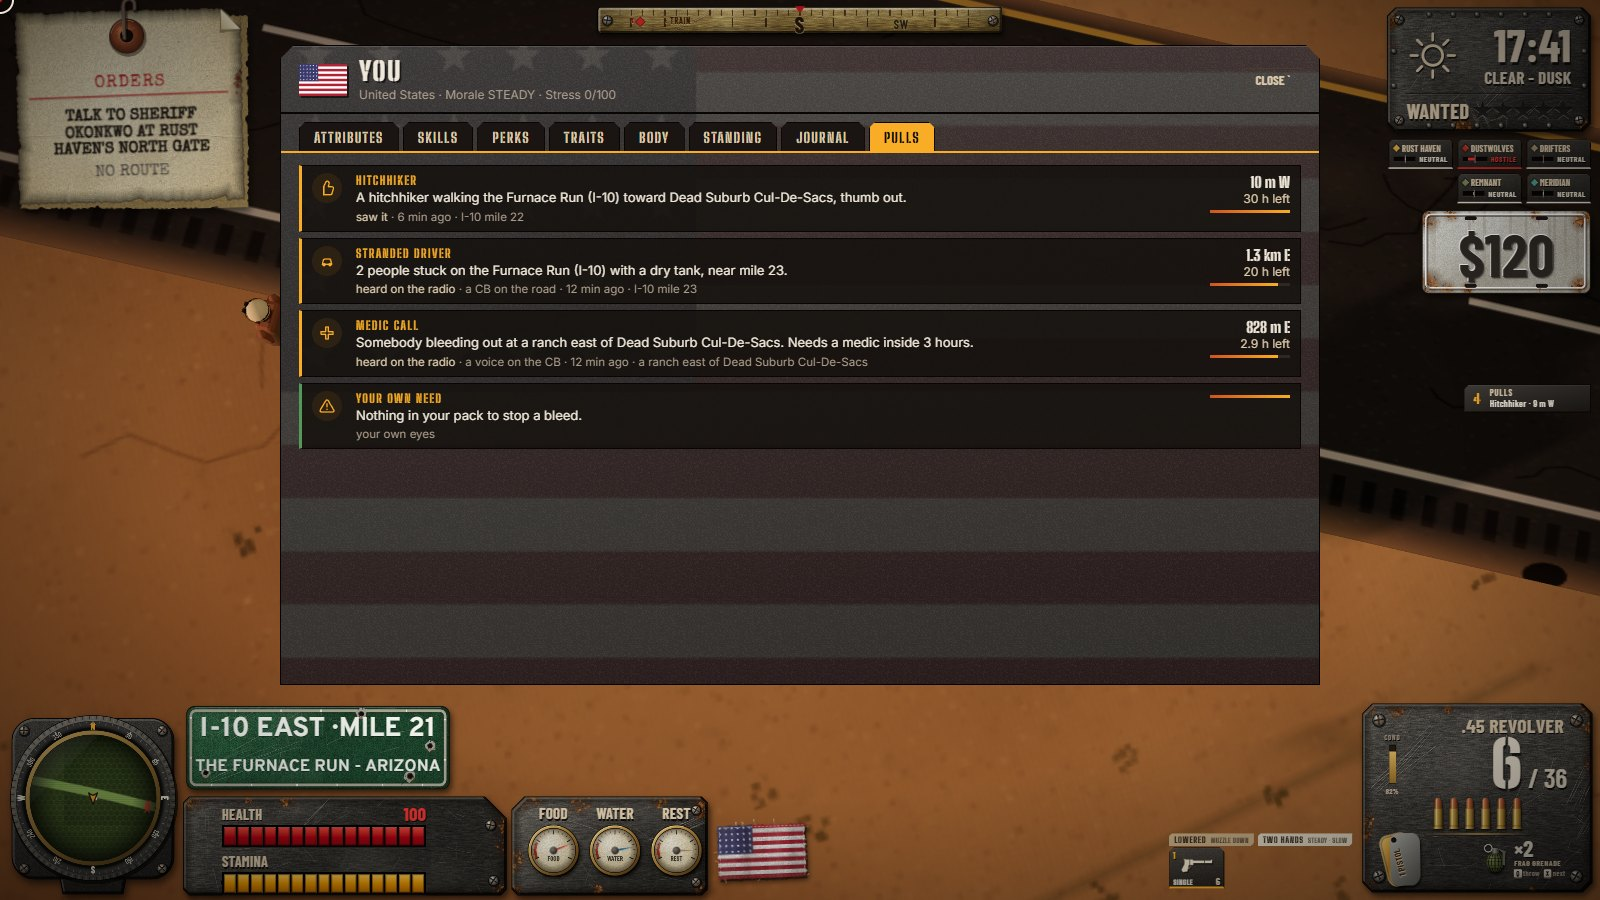
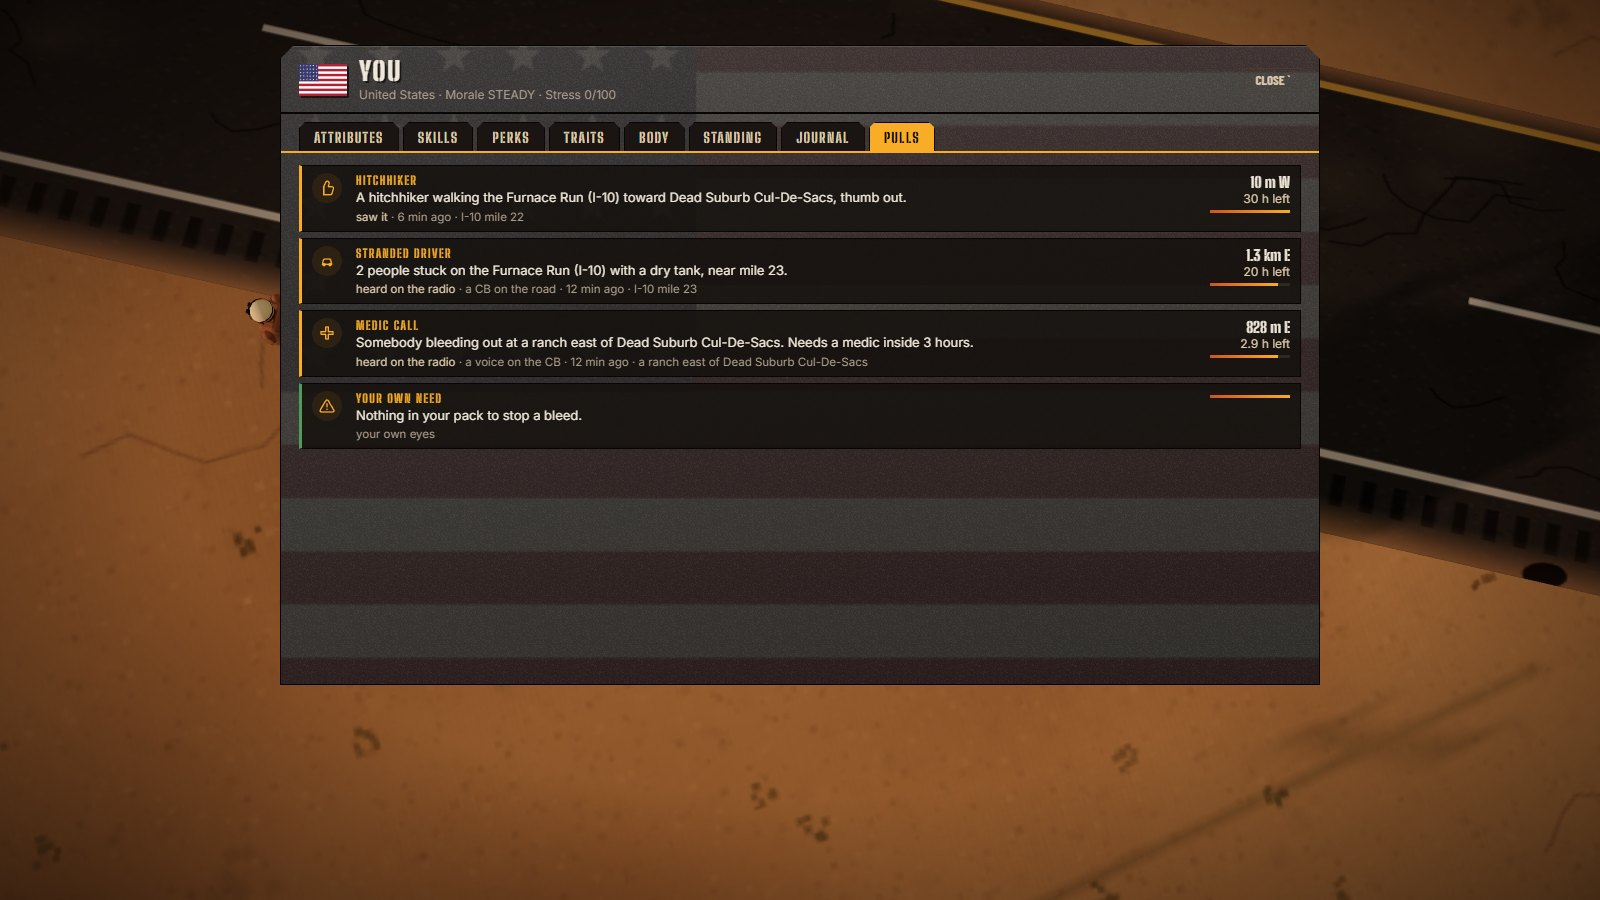
feat(pulls): the board as its own element in the sheet panel, so its regions exist on any tab (panels check); renders

diff --git a/web/src/ui/pullsboard.js b/web/src/ui/pullsboard.js
@@ -11,6 +11,7 @@ const CSS = `
 .pulls-chip b{font:900 18px var(--stencil,system-ui);color:var(--gold,#e0a83a);min-width:18px;text-align:center}
 .pulls-chip .pc-t{display:flex;flex-direction:column;line-height:1.15;min-width:0}.pulls-chip .pc-k{font-size:11px;color:var(--sand,#c8b48a);letter-spacing:.12em}
 .pulls-chip .pc-n{font-weight:600;font-size:12px;white-space:nowrap;overflow:hidden;text-overflow:ellipsis;max-width:220px}
+.pb-board{flex:1;min-height:0;overflow-y:auto;padding:12px 18px 14px;border-top:2px solid var(--gold,#e0a83a);position:relative}.pb-board.hidden{display:none}
 .pb-list{display:grid;grid-template-columns:minmax(0,1fr);gap:6px}
 .pb-row{display:grid;grid-template-columns:34px 1fr auto;gap:10px;align-items:start;padding:7px 10px;margin:0;background:oklch(0.17 0.01 60 / .82);border:1px solid oklch(0.12 0.01 60);border-left:3px solid var(--gold,#e0a83a);transition:background .2s}
 .pb-row:hover{background:oklch(0.2 0.012 60 / .9)}.pb-row.exp{border-left-color:var(--rust,#a8442a);opacity:.6}.pb-row.need{border-left-color:oklch(0.62 0.12 145)}
@@ -55,6 +56,7 @@ export class PullsBoard {
     this.chipEl.innerHTML = `<b>0</b><span class="pc-t"><span class="pc-k">PULLS</span><span class="pc-n">nothing has reached you</span></span>`;
     this.chipEl.onclick = () => g.charSheet?.toggle(true, 'pulls');
     (ui ?? document.body).appendChild(this.chipEl); // the layout lifts it into its row's wrapper (bind)
+    this.mount();
     this.timer = setInterval(() => this.refresh(), 500);
   }
   bearing(from, to) { const a = Math.atan2(to.x - from.x, -(to.z - from.z)); return ['N', 'NE', 'E', 'SE', 'S', 'SW', 'W', 'NW'][(Math.round(a / (Math.PI / 4)) + 8) % 8]; }
@@ -69,16 +71,34 @@ export class PullsBoard {
     this.chipEl.querySelector('b').textContent = String(n);
     this.chipEl.querySelector('.pc-n').textContent = line;
   }
-  tabHTML() {
+  // The board's own element inside the character sheet panel (after its card body): an empty state and the list, both always
+  // there (the panel's `pulls` and `pulls_empty` regions, data/panellayout.js), shown only while the PULLS tab is.
+  mount() {
+    const cs = this.g.charSheet?.el; if (!cs || this.boardEl) return this.boardEl ?? null;
+    this.boardEl = document.createElement('div');
+    this.boardEl.className = 'pb-board hidden';
+    this.boardEl.innerHTML = `<div class="pb-empty"><span class="pb-ic">${svg('radio', 32)}</span><div><b>Nothing has reached you.</b></div><div>Buy a drink in a saloon, read a town board, tune a radio, or watch the road.</div></div><div class="pb-list"></div>`;
+    cs.appendChild(this.boardEl);
+    return this.boardEl;
+  }
+  show(on) {
+    const el = this.mount(); if (!el) return;
+    el.classList.toggle('hidden', !on);
+    if (!on) return;
+    const rows = this.g.pulls?.board() ?? [];
+    el.querySelector('.pb-empty').style.display = rows.length ? 'none' : '';
+    el.querySelector('.pb-list').innerHTML = this.rowsHTML(rows);
+  }
+  tabHTML() { return this.rowsHTML(this.g.pulls?.board() ?? []); }
+  rowsHTML(rows) {
     const P = this.g.pulls; if (!P) return '';
-    const rows = P.board(), me = P.me();
-    if (!rows.length) return `<div class="pb-empty"><span class="pb-ic">${svg('radio', 32)}</span><div><b>Nothing has reached you.</b></div><div>Buy a drink in a saloon, read a town board, tune a radio, or watch the road.</div></div>`;
-    return `<div class="pb-list">${rows.map((r) => {
+    const me = P.me();
+    return `${rows.map((r) => {
       const left = r.what === 'need' ? '' : r.expired ? '<span class="l bad">EXPIRED</span>' : `<span class="l">${hrs(r.leftH)} left</span>`;
       const where = r.where ? `${km(r.distM)} ${this.bearing(me, r.where)}` : '';
       const src = r.what === 'need' ? 'your own eyes' : `<i>${esc(r.channelName)}</i>${r.channel !== 'saw' ? ` · ${esc(r.from)}` : ''} · ${hrs(r.heardH)} ago${r.ageH - r.heardH > 0.5 ? ` · the news is ${hrs(r.ageH)} old` : ''}${r.where?.place ? ` · ${esc(r.where.place)}` : ''}`;
       return `<div class="pb-row${r.expired ? ' exp' : ''}${r.what === 'need' ? ' need' : ''}"><span class="pb-ic">${svg(r.what)}</span><div><div class="pb-k">${esc(r.kind.toUpperCase())}</div><div class="pb-x">${esc(r.text)}.</div><div class="pb-src">${src}</div>${r.outcome ? `<div class="pb-out">${esc(r.outcome)}.</div>` : ''}</div>
         <div class="pb-r"><div class="d">${where}</div>${left}<div class="pb-conf" title="how sure the one who told you was"><i style="width:${Math.round(r.conf * 100)}%"></i></div></div></div>`;
-    }).join('')}</div>`; // the board is the sheet panel's `pulls` region (data/panellayout.js): F6 sets its columns and density
+    }).join('')}`; // the rows of the sheet panel's `pulls` region (data/panellayout.js): F6 sets its columns and density
   }
 }

diff --git a/web/src/ui/charsheet.js b/web/src/ui/charsheet.js
@@ -116,7 +116,7 @@ export class CharSheet {
     const bar = (x, max) => `<div class="cs-bar"><i style="width:${Math.max(0, Math.min(100, (x / max) * 100)).toFixed(0)}%"></i></div>`;
     const pct = (m) => `${m >= 1 ? '+' : ''}${Math.round((m - 1) * 100)}%`;
     const cols = (n) => { body.style.gridTemplateColumns = `repeat(${n}, minmax(0, 1fr))`; };
-    body.style.display = ''; body.style.overflowY = ''; // the PULLS tab scrolls a list; the others are grids
+    body.style.display = ''; this.g.pullsUI?.show(this.tab === 'pulls'); // the PULLS tab: the board's own element takes the body's place
     let h = '';
     if (this.tab === 'attributes') {
       cols(3);
@@ -151,7 +151,7 @@ export class CharSheet {
       h += card('MORALE', `<div class="cs-big">${v.morale.value} <span class="cs-muted">${v.morale.band}</span></div>${v.morale.mods.slice(0, 8).map((m) => `<span class="cs-pill ${m.v < 0 ? 'bad' : 'good'}">${m.label} ${m.v > 0 ? '+' : ''}${m.v}</span>`).join('')}`);
       h += card('REPUTATION', Object.values(v.reputation).map((r) => `${row(r.label, r.value)}${bar(r.value + (r.label.includes('/') ? 100 : 0), r.label.includes('/') ? 200 : 100)}`).join(''));
     } else if (this.tab === 'pulls') {
-      body.style.overflowY = 'auto'; body.style.display = 'block'; h += this.g.pullsUI?.tabHTML() ?? ''; // the PULLS board
+      body.style.display = 'none'; // the PULLS board is its own element in this panel (ui/pullsboard.js), shown below
     } else {
       cols(2);
       h += this.journalCards();

diff --git a/docs/design/WEB_PULLS.md b/docs/design/WEB_PULLS.md
@@ -139,9 +139,10 @@ Shared-file hooks (exact):
 | `web/src/main.js` | 2 imports; `this.pulls` and `this.pullsUI` constructed before the roadside; `this.pulls.update(simDt)` in the sim block; `this.pulls?.onKill(c, attacker)` in `onKill`; `it.amount ??` in the cash pickup (a spilled purse is its exact amount) |
 | `web/src/systems/ai.js` | 1 line after the Grapevine branch: `if ((c.pullRec \|\| c.barRole) && g.pulls?.think(c, dt)) continue;` |
 | `web/src/ui/dialogue.js` | 2 lines in the stranger branch: `g.pulls.talkFor(c)` before the small talk |
-| `web/src/ui/charsheet.js` | `'pulls'` in `TABS`; one render branch; one style reset line |
+| `web/src/ui/charsheet.js` | `'pulls'` in `TABS`; the pulls branch hides the card body; one line shows the board's own element on its tab |
 | `web/src/systems/rites.js` | 1 line at the end of `learn`: `this.g.pulls?.deathNews?.(R, fact)` |
 | `web/src/data/hudlayout.js` | 1 row: `pulls` (`.pulls-chip`) |
+| `web/src/data/panellayout.js` | 2 region rows on the sheet panel: `pulls` (`.pb-list`, a list, tab `pulls`) and `pulls_empty` (`.pb-empty`); the board is its own element in the panel, shown only on its tab |
 | `web/src/agent/api.js` | import, `...pullsCommands`, `await pullsChecks(...)` before the perf budget; the snapshot excludes `pullRec`/`barRole` characters and saves `pulls`; restore calls `g.pulls.load` before the characters |
 | `web/docs/COMMANDS.md` | regenerated |
 
